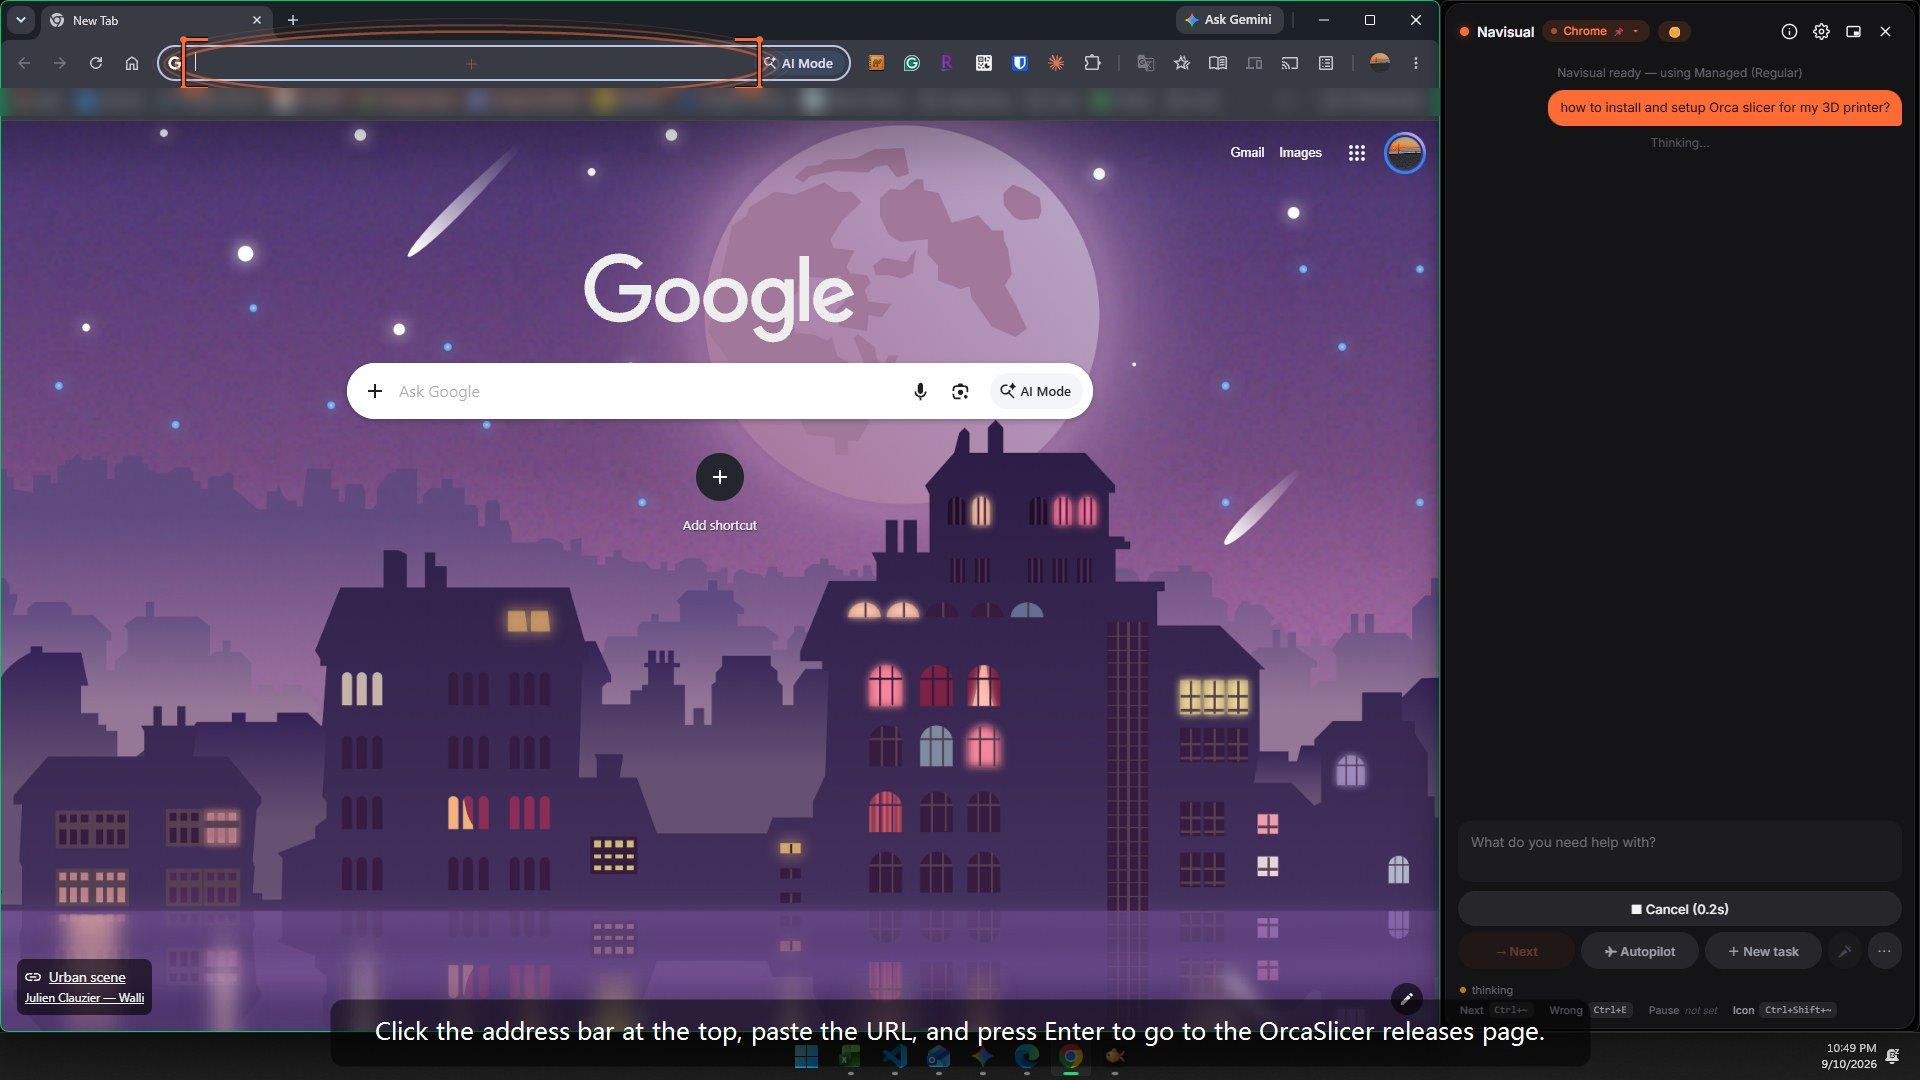
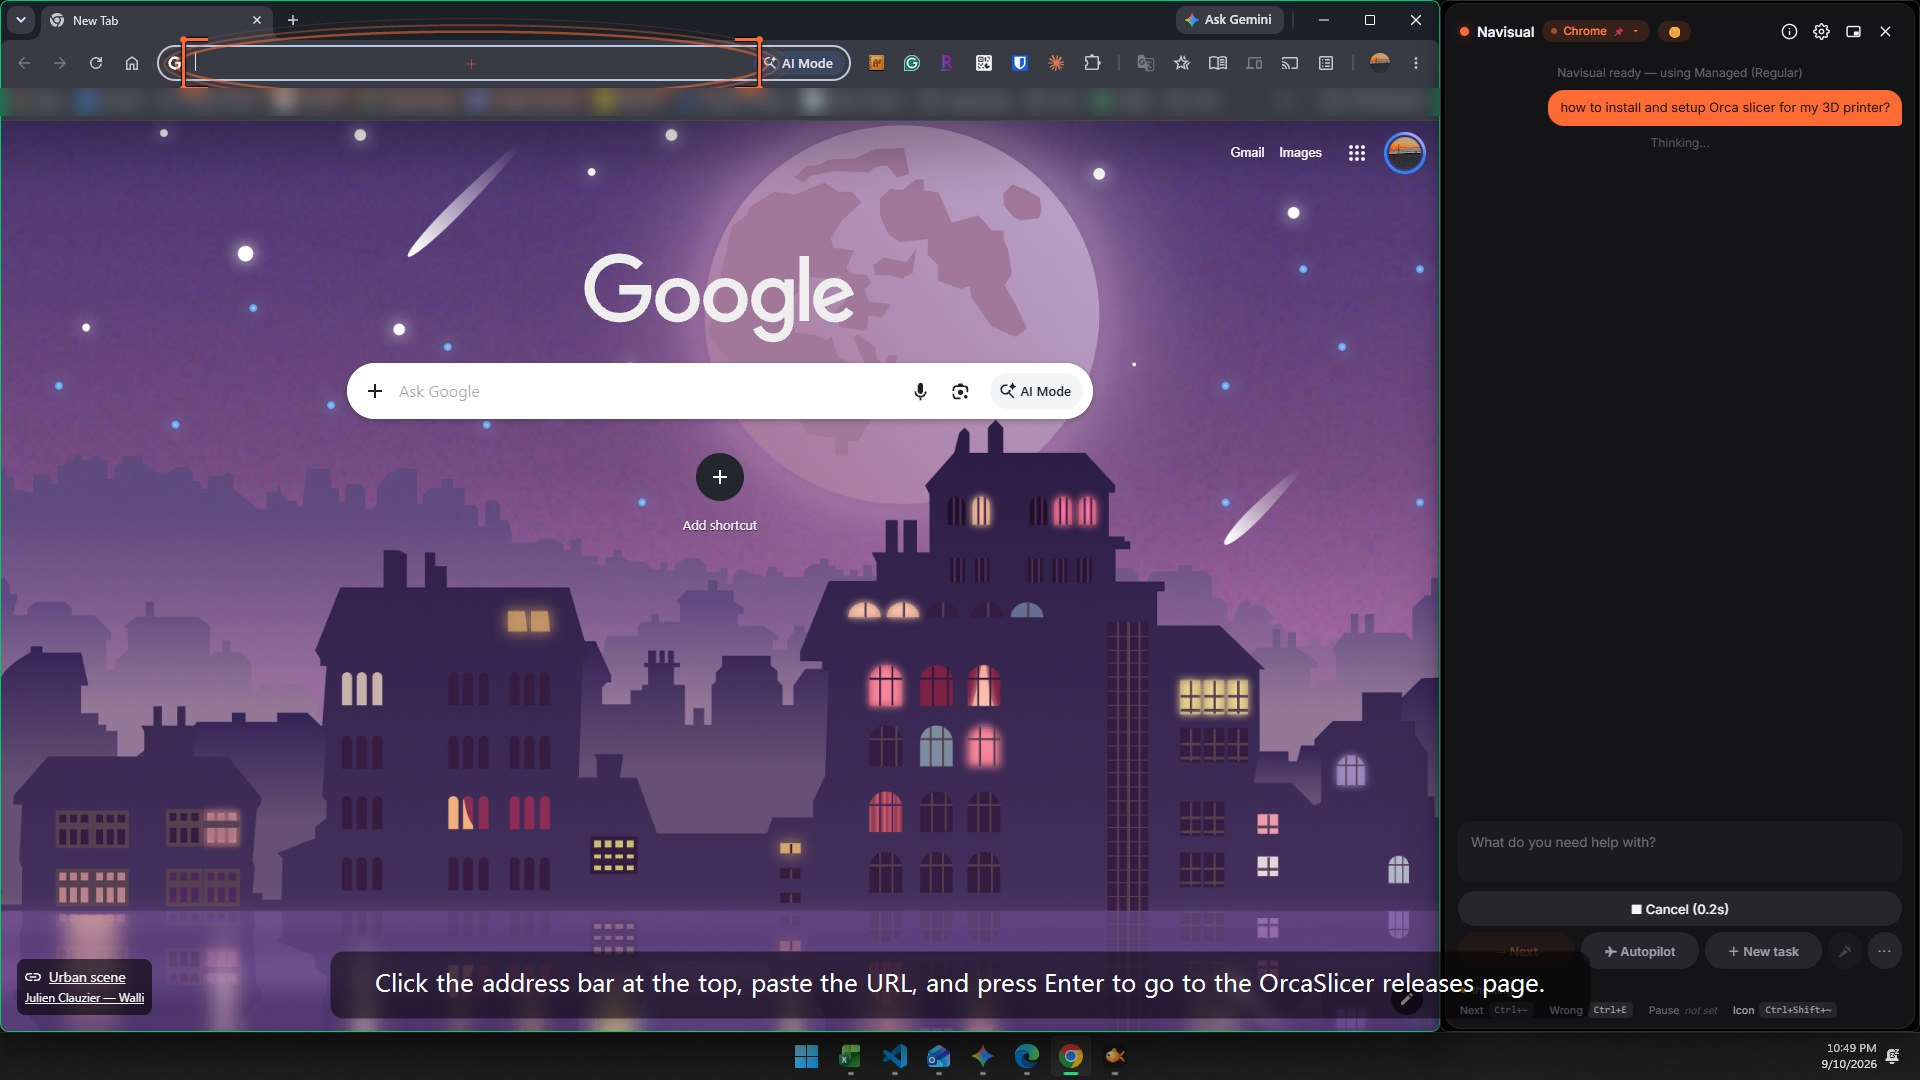
guides: caption clears the taskbar, and publish
The overlay was fixed on 2026-09-07 to anchor the caption to the monitor's WORK
AREA rather than the monitor, so the strip sits above the taskbar instead of
across its icons. Neither the exporter nor the re-annotator knew, because both
only ever saw the frame's own bottom edge -- so every exported figure with a
caption reintroduced the defect the app had already fixed. Visible in the two
screenshots on this page that carry one.

Steps now record caption_bottom_inset (work-area bottom vs frame bottom, scaled
for any downscale on the way to disk), and both renderers anchor to it. A crop to
the app window reduces the inset by whatever was cut off the bottom, since a
cropped frame no longer contains the taskbar. annotate-session.ps1 gains
-CaptionInset for sessions exported before the field existed; the two frames here
were re-rendered with 48, the measured Windows 11 taskbar at 100%.

draft: false -- preflight passes with 0 errors and 0 warnings on both guides.

Claude-Session: https://claude.ai/code/session_01RaL9betkFkZEVHMBAJeeM6

Changed region(s): [[0.1562, 0.8556, 0.8125, 1.0]]

diff --git a/_guides/orcaslicer-connect-printer-wifi.md b/_guides/orcaslicer-connect-printer-wifi.md
@@ -12,10 +12,8 @@ total_time: PT15M
 # Feeds the "image" of the schema.org HowTo, which is what a rich result shows.
 hero_image: /images/guides/orcaslicer-connect-printer-wifi/06-device-tab-fluidd.png
 
-# Set to false to publish. While true: noindex, hidden from /guides/, and left
-# out of the sitemap, so this can be pushed and previewed at its real URL, with
-# the real layout and CTA, without being discoverable.
-draft: true
+# Reviewed and published 2026-09-11.
+draft: false
 
 steps:
   - name: "Download the Windows installer"
